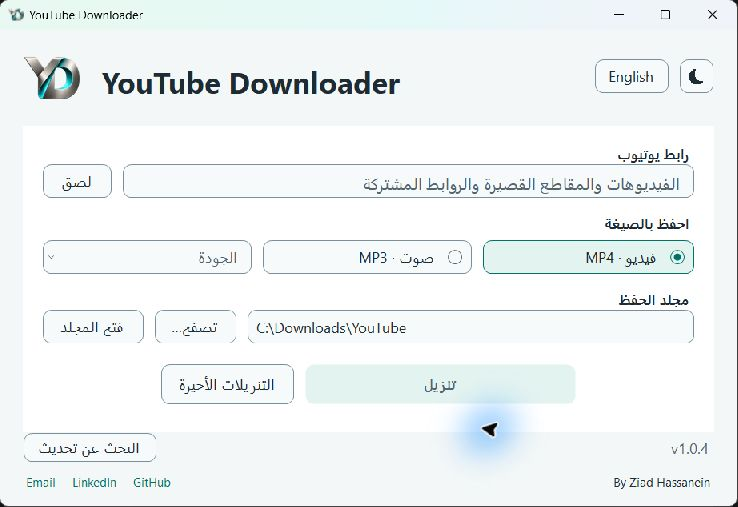
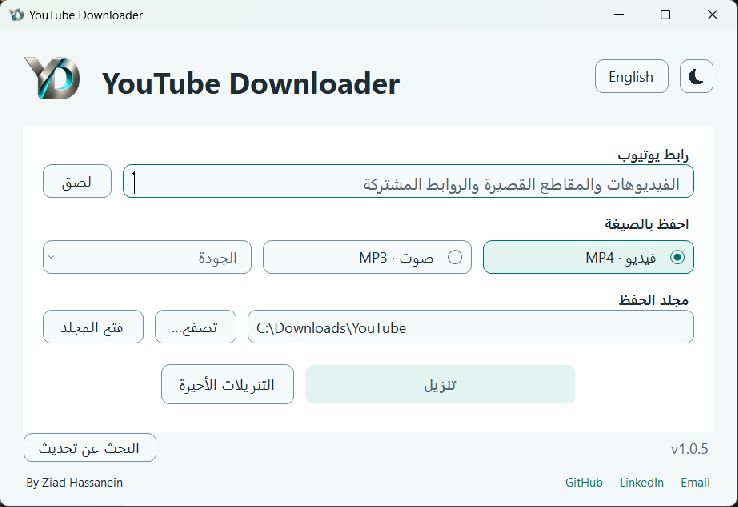
Keep author credit left in both languages

diff --git a/src/App.cs b/src/App.cs
@@ -51,7 +51,7 @@ namespace YouTubeDownloader {
         private readonly ThemeProgress progress=new ThemeProgress();
         private TableLayoutPanel content=new TableLayoutPanel();
         private ThemeScrollHost scroll;
-        private TableLayoutPanel branding, updateRow;
+        private TableLayoutPanel branding, updateRow, authorRow;
         private AppRelease availableUpdate;
         private bool checkingUpdate, installingUpdate;
         private readonly ToolSet tools;
@@ -204,7 +204,7 @@ namespace YouTubeDownloader {
                 string target=entry[1]; var link=new LinkLabel { Text=entry[0],AutoSize=true,LinkColor=Accent,ActiveLinkColor=Accent,VisitedLinkColor=Accent,LinkBehavior=LinkBehavior.HoverUnderline,Margin=new Padding(12,0,0,0),Font=author.Font,Tag="social",AccessibleName=entry[0]+" · Ziad Hassanein" };
                 link.LinkClicked+=delegate { try { Process.Start(new ProcessStartInfo(target) { UseShellExecute=true }); } catch { ShowContextNotice("Could not open link","Open the link in your browser and try again.",StatusTone.Error,socials); } }; socials.Controls.Add(link);
             }
-            Add(Row(author,socials),0); author.Parent.Margin=new Padding(0,14,0,0);
+            authorRow=Row(author,socials); Add(authorRow,0); authorRow.Margin=new Padding(0,14,0,0);
             updateHeading.AutoSize=true; updateHeading.Font=new Font(Font,FontStyle.Bold); updateHeading.Margin=new Padding(0,0,0,4);
             updateMessage.AutoSize=true; updateMessage.Tag="muted"; updateMessage.MaximumSize=new Size(696,0); updateMessage.Margin=new Padding(0);
             ConfigureButton(noticeDismiss,"Dismiss"); noticeDismiss.Quiet=true; noticeDismiss.Width=80; noticeDismiss.Height=32; noticeDismiss.AccessibleName="Dismiss update message"; noticeDismiss.Click+=delegate { HideUpdateNotice(); };
@@ -254,7 +254,7 @@ namespace YouTubeDownloader {
             state.Language=value=="ar" ? "ar" : "en"; ApplyLanguage(); ApplyTitleBarTheme(); RepaintInterface(); SaveState();
         }
         private void CaptureLayout(Control parent) {
-            if(parent==branding || parent==updateRow) return;
+            if(parent==branding || parent==updateRow || parent==authorRow) return;
             var table=parent as TableLayoutPanel;
             if(table!=null && table.ColumnCount>1) tableStates.Add(new TableState { Table=table,Columns=table.ColumnStyles.Cast<ColumnStyle>().Select(c=>new ColumnStyle(c.SizeType,c.Width)).ToArray() });
             foreach(Control child in parent.Controls) {

diff --git a/tests/InterfaceChecks.cs b/tests/InterfaceChecks.cs
@@ -57,6 +57,8 @@ internal static class InterfaceChecks {
                             if(!Field<Button>(window,"paste").Visible || !Field<Label>(window,"toolsStatus").Visible || !url.Visible || !theme.Visible) throw new Exception("Language change hid an essential control");
                             var update=Field<ThemeButton>(window,"update"); var version=Field<Label>(window,"toolsStatus"); var footer=(TableLayoutPanel)update.Parent;
                             if(footer.GetColumn(update)!=0 || footer.GetColumn(version)!=1 || update.IsArabic!=arabic || version.TextAlign!=ContentAlignment.MiddleRight || version.Text!="v"+AppUpdates.Current.ToString(3) || update.Left>=version.Left) throw new Exception("Language change moved the fixed update/version footer, broke text direction, or restored tool text");
+                            var credits=Field<TableLayoutPanel>(window,"authorRow"); var author=(Label)credits.Controls[0]; var socials=(FlowLayoutPanel)credits.Controls[1];
+                            if(credits.GetColumn(author)!=0 || credits.GetColumn(socials)!=1 || author.TextAlign!=ContentAlignment.TopLeft || socials.FlowDirection!=FlowDirection.LeftToRight || author.Left>=socials.Left) throw new Exception("Language change moved the author credit from the left or reordered the social links");
                             if(Field<Button>(window,"cancel").Visible || Field<Button>(window,"openFile").Visible || Field<ThemeProgress>(window,"progress").Visible || Field<NoticePopover>(window,"updateNotice").Visible) throw new Exception("Language change revealed an inactive control");
                             if(painted<=before) throw new Exception("The status label was not repainted: stage="+stage.Bounds+", screen="+stage.PointToScreen(Point.Empty)+", content="+Field<TableLayoutPanel>(window,"content").Bounds+", viewport="+Field<ThemeScrollHost>(window,"scroll").Controls[0].Bounds);
                             pass++;

diff --git a/src/AssemblyInfo.cs b/src/AssemblyInfo.cs
@@ -6,6 +6,6 @@ using System.Runtime.InteropServices;
 [assembly: AssemblyCompany("Ziad Hassanein")]
 [assembly: AssemblyProduct("YouTube Downloader")]
 [assembly: AssemblyCopyright("Copyright © 2026 Ziad Hassanein")]
-[assembly: AssemblyVersion("1.0.4.0")]
-[assembly: AssemblyFileVersion("1.0.4.0")]
+[assembly: AssemblyVersion("1.0.5.0")]
+[assembly: AssemblyFileVersion("1.0.5.0")]
 [assembly: ComVisible(false)]

diff --git a/README.md b/README.md
@@ -16,7 +16,7 @@ A desktop app for saving YouTube videos as MP4 or extracting MP3 audio. Paste a 
 
 ## Get started
 
-1. Download `YouTubeDownloader-v1.0.4-windows-x64.zip` from the release page.
+1. Download `YouTubeDownloader-v1.0.5-windows-x64.zip` from the release page.
 2. Extract the ZIP to a writable folder.
 3. If yt-dlp, FFmpeg, or Deno are missing, run `SetupTools.cmd` once. It installs only missing tools through Windows Package Manager.
 4. Open `YouTubeDownloader.exe`, paste a video link, and wait for its available qualities to appear.
@@ -43,6 +43,7 @@ Windows 10/11 x64 and .NET Framework 4.8 are required. Windows 11 includes the r
 - Automatic checks on paste, a helpful link placeholder, and concise errors with recovery steps.
 - Clear feedback when the app is up to date or an update check fails.
 - Update action on the left and a simple version label on the right in both languages.
+- Author credit stays on the left and social links stay on the right in both languages.
 - Theme-matched scrolling, anchored folder/update popovers, and automatic message dismissal after five seconds.
 - A larger transparent YD mark in the app header and taskbar.
 - Link cleared after a successful download; every launch starts with an empty link.
